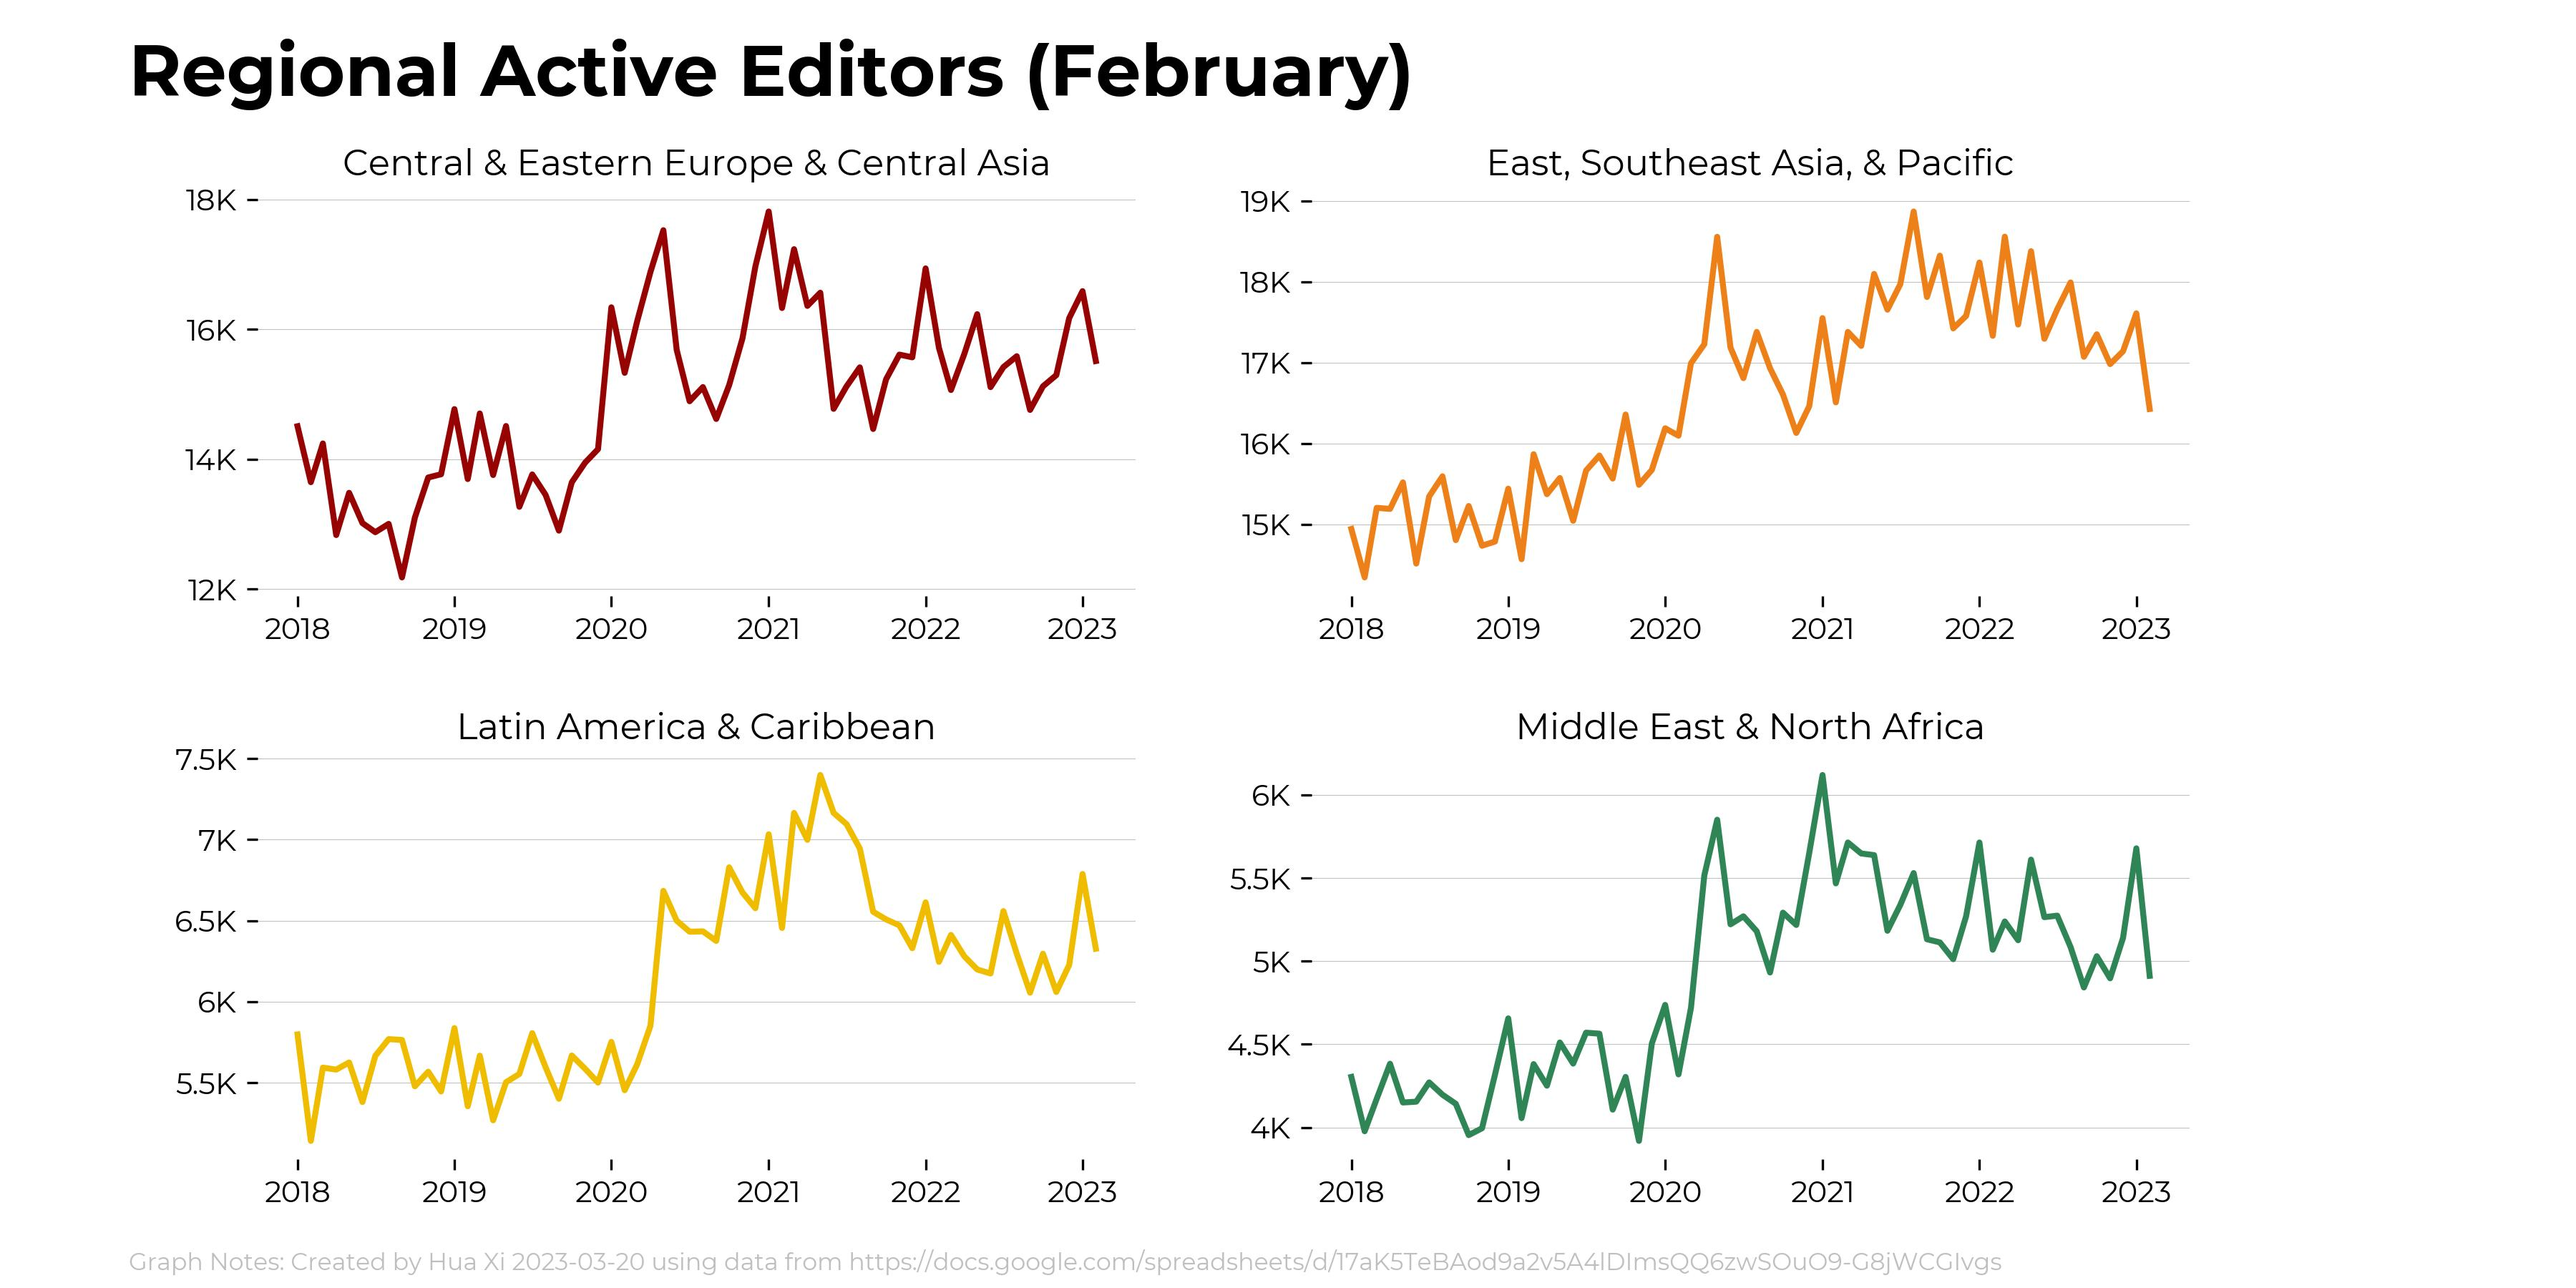
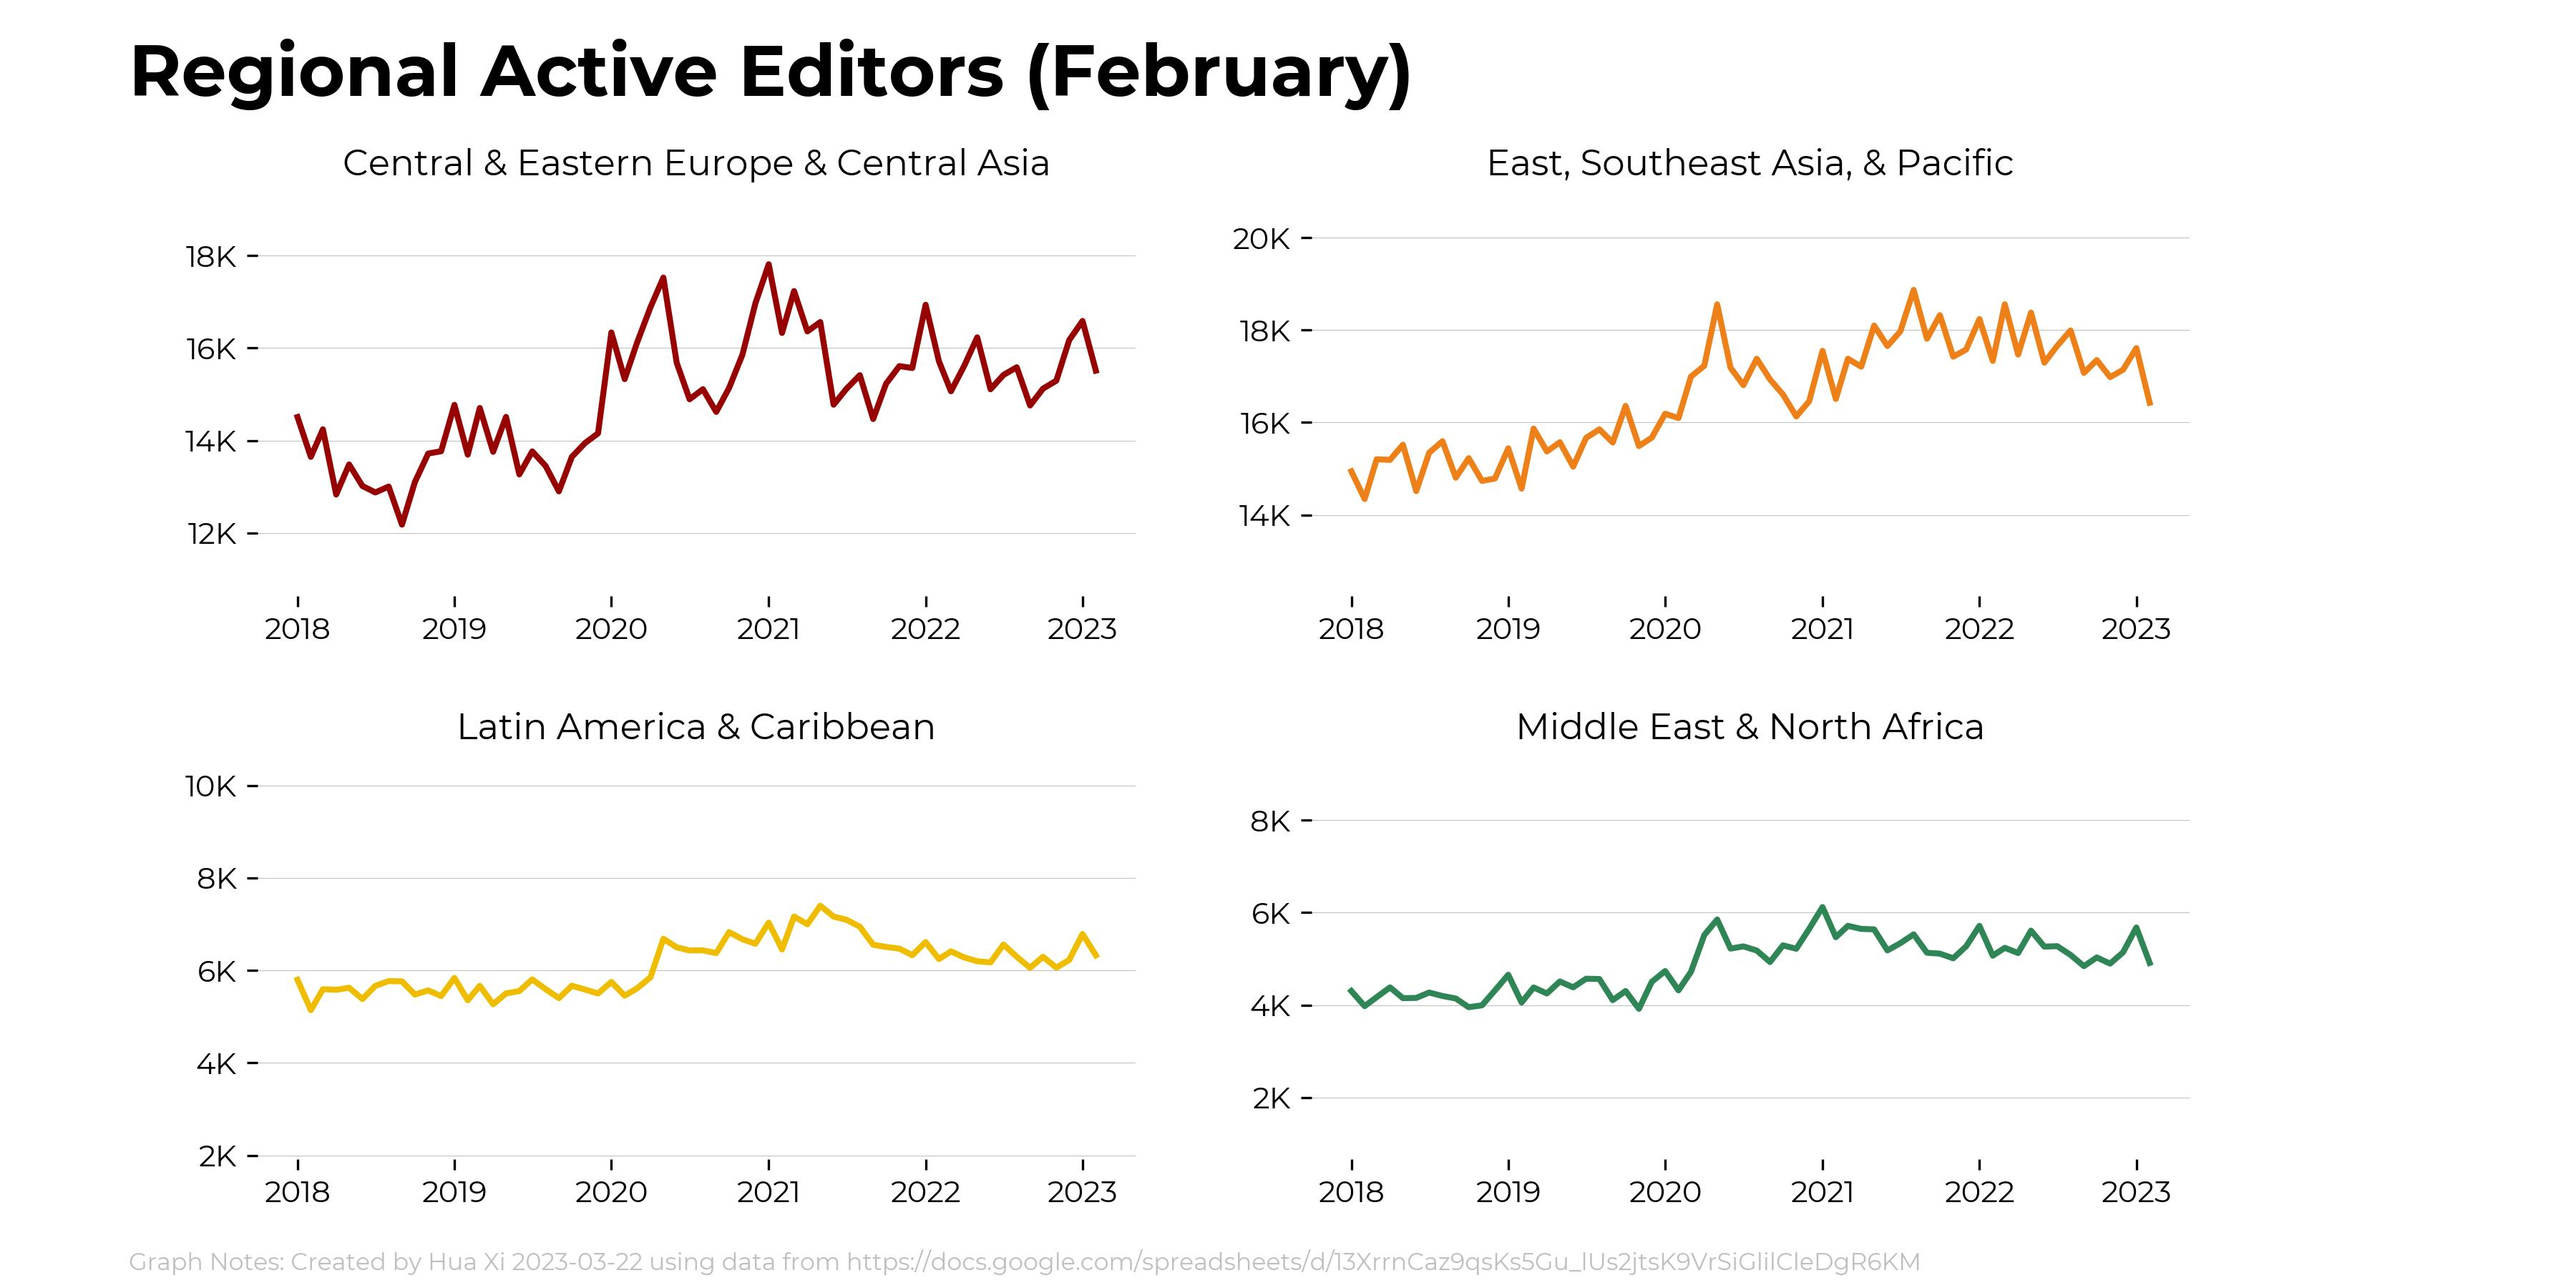
regional charts updates

diff --git a/wikicharts/individual_chart_scripts/regional_unique_devices.py b/wikicharts/individual_chart_scripts/regional_unique_devices.py
@@ -1,6 +1,8 @@
 import pandas as pd
 import datetime
+import matplotlib
 import matplotlib.pyplot as plt
+import matplotlib.ticker as ticker
 import matplotlib.font_manager
 import path
 import getopt
@@ -39,6 +41,8 @@ def main(argv):
 	#note start and end dates may be different depending on chart_type
 	start_date = "2018-01-01"
 	end_date = datetime.datetime.today()
+	block_off_start = datetime.datetime.strptime("2021-01-01", '%Y-%m-%d')
+	block_off_end = datetime.datetime.strptime("2022-07-01", '%Y-%m-%d')
 
 	#convert string to datetime
 	df['month'] = pd.to_datetime(df['month'])
@@ -47,13 +51,14 @@ def main(argv):
 	df = df[df["month"].isin(pd.date_range(start_date, end_date))]
 
 	#get max and min for setting subplot yaxis limits
+	'''
 	data_min = df["unique_devices"].min()
 	data_max = df["unique_devices"].max()
 	ymin = data_min
 	ymax = data_max
 	#ymin = data_min - (data_max - data_min / 4)
 	#ymax = data_max + (data_max - data_min / 4)
-
+	'''
 
 	#pivot to make regions separate columns
 	df = df.pivot(index='month', columns='region', values='unique_devices').reset_index()
@@ -77,24 +82,42 @@ def main(argv):
 		index=['northam','northeu','southasia','subafri'],
 		columns=['labelname','color'])
 
+	annotation_text = "*Data unreliable [February 2021 - June 2022] (period not shown)"
+
 	#---MAKE CHART---
 	#first set of four
 	chart1 = Wikichart(start_date,end_date,df1)
-	chart1.init_plot(width=12,subplotsx=2,subplotsy=2)
+	#plt.figure(1)
+	chart1.init_plot(width=12,height=6,subplotsx=2,subplotsy=2,fignum=0)
 	chart1.plot_subplots_lines('month', key1)
-	chart1.normalize_subplotyaxis(ymin, ymax)
-	chart1.format_subplots(title = 'Regional Unique Devices',
-		key = key1,
-		data_source="https://docs.google.com/spreadsheets/d/13XrrnCaz9qsKs5Gu_lUs2jtsK9VrSiGlilCleDgR6KM")
-	chart1.finalize_plot(save_file_name1,display=display_flag)
+	maxrange1 = chart1.get_maxrange()
 	#second set of four
 	chart2 = Wikichart(start_date,end_date,df2)
-	chart2.init_plot(width=12,subplotsx=2,subplotsy=2)
+	chart2.init_plot(width=12,height=6,subplotsx=2,subplotsy=2,fignum=1)
 	chart2.plot_subplots_lines('month', key2)
-	chart2.normalize_subplotyaxis(ymin, ymax)
+	maxrange2 = chart2.get_maxrange()
+	#calculate the largest range between the two figures and 8 subplots
+	maxrange = max(maxrange1,maxrange2)
+	#format and display figure 1
+	plt.figure(0)
+	chart1.standardize_subplotyrange(maxrange)
+	chart1.block_off_multi(block_off_start,block_off_end)
+	chart1.format_subplots(title = 'Regional Unique Devices',
+		key = key1,
+		data_source="https://docs.google.com/spreadsheets/d/13XrrnCaz9qsKs5Gu_lUs2jtsK9VrSiGlilCleDgR6KM",
+		tadjust=0.8, badjust=0.1)
+	chart1.top_annotation(annotation_text = annotation_text)
+	#save chart1 but set display to False because plt.show() will show all figures at once
+	chart1.finalize_plot(save_file_name1,display=False)
+	#format and display figure 2
+	plt.figure(1)
+	chart2.standardize_subplotyrange(maxrange)
+	chart2.block_off_multi(block_off_start,block_off_end)
 	chart2.format_subplots(title = 'Regional Unique Devices',
 		key = key2,
-		data_source="https://docs.google.com/spreadsheets/d/13XrrnCaz9qsKs5Gu_lUs2jtsK9VrSiGlilCleDgR6KM")
+		data_source="https://docs.google.com/spreadsheets/d/13XrrnCaz9qsKs5Gu_lUs2jtsK9VrSiGlilCleDgR6KM",
+		tadjust=0.8, badjust=0.1)
+	chart2.top_annotation(annotation_text = annotation_text)
 	chart2.finalize_plot(save_file_name2,display=display_flag)
 
 if __name__ == "__main__":

diff --git a/wikicharts/wikicharts.py b/wikicharts/wikicharts.py
@@ -1,9 +1,12 @@
 import pandas as pd
-import datetime
+from datetime import date
+from datetime import datetime, timedelta
 import matplotlib
 import matplotlib.pyplot as plt
 import matplotlib.ticker as ticker
 import matplotlib.font_manager
+import matplotlib.dates as mdates
+from matplotlib.patches import Rectangle
 import numpy as np
 import math
 import re
@@ -72,9 +75,9 @@ class Wikichart:
 		input1 = input()
 	'''
 
-	def init_plot(self,width=10,height=6,subplotsx=1,subplotsy=1):
+	def init_plot(self,width=10,height=6,subplotsx=1,subplotsy=1,fignum=0):
 		#plt.figure(figsize=(width, height))
-		self.fig, self.ax = plt.subplots(subplotsx,subplotsy)
+		self.fig, self.ax = plt.subplots(subplotsx,subplotsy, num=fignum)
 		self.fig.set_figwidth(width)
 		self.fig.set_figheight(height)
 
@@ -196,10 +199,32 @@ class Wikichart:
 		today = date.today()
 		plt.figtext(0.05,0.01, "Graph Notes: Created by " + str(author) + " " + str(today) + " using data from " + str(data_source), fontsize=8, va="bottom", ha="left", color=wmf_colors['black25'], fontproperties={'family':style_parameters['font']})
 	
-	def normalize_subplotyaxis(self, ymin, ymax):
+	#set every subplot to the same ymin and ymax
+	def standardize_subplotyaxis(self, ymin, ymax):
 		for row in self.ax:
 			for axis in row:
 				axis.set_ylim([ymin, ymax])
+
+	#set every subplot to the same yrange and intervals
+	def standardize_subplotyrange(self, yrange, yspacing = 50000000):
+		#minorLocator = ticker.MultipleLocator(yspacing)
+		for row in self.ax:
+			for axis in row:
+				current_ymin, current_ymax = axis.get_ylim()
+				newymin = current_ymin + ((current_ymax - current_ymin) / 2) - (yrange / 2)
+				newymax = newymin + yrange
+				axis.set_ylim(newymin, newymax)
+				#axis.yaxis.set_major_locator(ticker.MultipleLocator(yspacing))
+				#axis.Axis.set_minor_locator(minorLocator)
+
+	#returns the subplot with the max range, and its corresponding locators
+	def get_maxrange(self):
+		ranges = []
+		for row in self.ax:
+			for axis in row:
+				ymin, ymax = axis.get_ylim()
+				ranges.append(ymax - ymin)
+		return max(ranges)
 
 	def calc_yoy(self,y,yoy_note=""):
 		yoy_highlight = pd.concat([self.df.iloc[-13,:],self.df.iloc[-1,:]],axis=1).T
@@ -285,6 +310,39 @@ class Wikichart:
 				label_color=key.loc[y,'color'],
 				xpad=75, 
 				ypad=lastys.iloc[i].ypad)
+
+	def top_annotation(self, x = 0.05, y =0.87, annotation_text = ""):
+		plt.figtext(x, y, annotation_text, family=style_parameters['font'],fontsize=10, color= wmf_colors['black75'])
+
+	#draws a rectangle to block off a set of dates
+	def block_off(self,axis, blockstart, blockend, xbuffer = 7):
+		#convert dates to x axis coordinates
+		xstart = mdates.date2num(blockstart)
+		xend = mdates.date2num(blockend)
+		block_width = xend - xstart
+
+		#get height
+		ymin, ymax = axis.get_ylim()
+		block_height = ymax - ymin
+
+		#plot rectangle
+		rect = Rectangle((xstart - xbuffer, ymin), block_width + 2 * xbuffer, block_height, 
+			color='white', 
+			linewidth=0,
+			fill='white',
+			edgecolor=None,
+			zorder=10)
+		axis.add_patch(rect) 
+
+	def block_off_multi(self,blockstart, blockend, xbuffer = 7):
+		for row in self.ax:
+			for axis in row:
+				self.block_off(axis,blockstart, blockend, xbuffer)
+
+
+
+
+
 
 
 

diff --git a/wikicharts/individual_chart_scripts/regional_active_editors.py b/wikicharts/individual_chart_scripts/regional_active_editors.py
@@ -72,19 +72,31 @@ def main(argv):
 	#---MAKE CHART---
 	#first set of four
 	chart1 = Wikichart(start_date,end_date,df1)
-	chart1.init_plot(width=12,subplotsx=2,subplotsy=2)
+	#plt.figure(1)
+	chart1.init_plot(width=12,subplotsx=2,subplotsy=2,fignum=0)
 	chart1.plot_subplots_lines('month', key1)
-	chart1.format_subplots(title = 'Regional Active Editors',
-		key = key1,
-		data_source="https://docs.google.com/spreadsheets/d/17aK5TeBAod9a2v5A4lDImsQQ6zwSOuO9-G8jWCGIvgs")
-	chart1.finalize_plot(save_file_name1,display=display_flag)
+	maxrange1 = chart1.get_maxrange()
 	#second set of four
 	chart2 = Wikichart(start_date,end_date,df2)
-	chart2.init_plot(width=12,subplotsx=2,subplotsy=2)
+	chart2.init_plot(width=12,subplotsx=2,subplotsy=2,fignum=1)
 	chart2.plot_subplots_lines('month', key2)
+	maxrange2 = chart2.get_maxrange()
+	#calculate the largest range between the two figures and 8 subplots
+	maxrange = max(maxrange1,maxrange2)
+	#format and display figure 1
+	plt.figure(0)
+	chart1.standardize_subplotyrange(maxrange)
+	chart1.format_subplots(title = 'Regional Active Editors',
+		key = key1,
+		data_source="https://docs.google.com/spreadsheets/d/13XrrnCaz9qsKs5Gu_lUs2jtsK9VrSiGlilCleDgR6KM")
+	#save chart1 but set display to False because plt.show() will show all figures at once
+	chart1.finalize_plot(save_file_name1,display=False)
+	#format and display figure 2
+	plt.figure(1)
+	chart2.standardize_subplotyrange(maxrange)
 	chart2.format_subplots(title = 'Regional Active Editors',
 		key = key2,
-		data_source="https://docs.google.com/spreadsheets/d/17aK5TeBAod9a2v5A4lDImsQQ6zwSOuO9-G8jWCGIvgs")
+		data_source="https://docs.google.com/spreadsheets/d/13XrrnCaz9qsKs5Gu_lUs2jtsK9VrSiGlilCleDgR6KM")
 	chart2.finalize_plot(save_file_name2,display=display_flag)
 
 if __name__ == "__main__":

diff --git a/wikicharts/individual_chart_scripts/unique_devices_mod.py b/wikicharts/individual_chart_scripts/unique_devices_mod.py
@@ -115,7 +115,6 @@ def main(argv):
 	ystart = ytick_values[0]
 	height = ytick_values[-1] - ytick_values[0]
 
-	pale_blue = '#c0e6ff'
 	# Plot rectangle
 	rect = Rectangle((xstart, ystart), width, height, 
 		color='white', 
